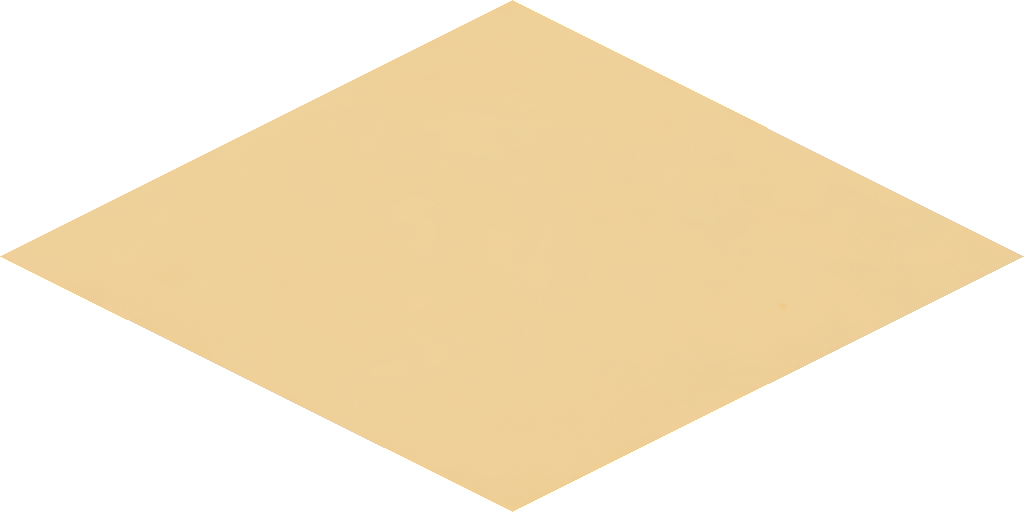
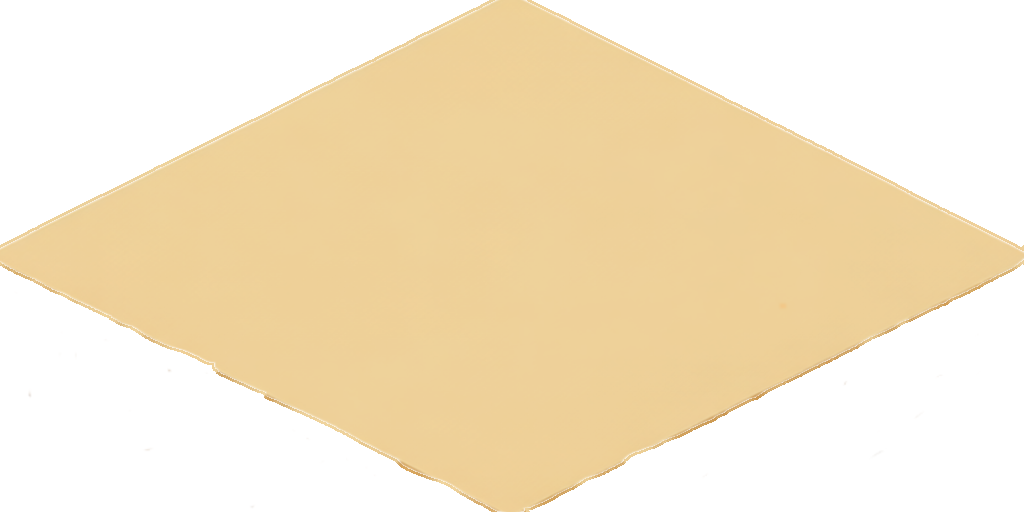
Auto-save: Claude session 2026-04-23 16:30

diff --git a/World/Tilemap/IsoTileMap.cs b/World/Tilemap/IsoTileMap.cs
@@ -642,28 +642,6 @@ public partial class IsoTileMap : TileMapLayer
         }
 
         src.Resize(128, 64, Image.Interpolation.Bilinear);
-        src.Convert(Image.Format.Rgba8);
-
-        // Вычисляем средний цвет непрозрачных пикселей (центр ромба)
-        var r = 0f; var g = 0f; var b = 0f; int count = 0;
-        for (int py = 16; py < 48; py++)
-        for (int px = 32; px < 96; px++)
-        {
-            var col = src.GetPixel(px, py);
-            if (col.A > 0.5f) { r += col.R; g += col.G; b += col.B; count++; }
-        }
-        var avgCol = count > 0
-            ? new Color(r / count, g / count, b / count, 1f)
-            : new Color(0.8f, 0.7f, 0.4f, 1f);
-
-        // Заполняем прозрачные углы средним цветом — убираем тёмные швы
-        for (int py = 0; py < 64; py++)
-        for (int px = 0; px < 128; px++)
-        {
-            if (src.GetPixel(px, py).A < 0.5f)
-                src.SetPixel(px, py, avgCol);
-        }
-
         atlas.BlitRect(src, new Rect2I(0, 0, 128, 64), new Vector2I(tileIndex * 128, 0));
         return true;
     }
@@ -672,7 +650,6 @@ public partial class IsoTileMap : TileMapLayer
     {
         const int w = 128, h = 64;
         int offsetX = tileIndex * w;
-        // Заполняем ВЕСЬ прямоугольник цветом тайла — нет прозрачных углов = нет швов
         for (int y = 0; y < h; y++)
         {
             for (int x = 0; x < w; x++)
@@ -680,10 +657,8 @@ public partial class IsoTileMap : TileMapLayer
                 float nx = (float)x / w;
                 float ny = (float)y / h;
                 float dist = Mathf.Abs(nx - 0.5f) + Mathf.Abs(ny - 0.5f);
-                Color c = dist > 0.5f ? fill        // углы — цвет тайла (не прозрачность)
-                        : dist > 0.46f ? border     // рамка ромба
-                        : fill;                     // центр
-                image.SetPixel(offsetX + x, y, c);
+                if (dist > 0.5f) continue;
+                image.SetPixel(offsetX + x, y, dist > 0.46f ? border : fill);
             }
         }
     }
